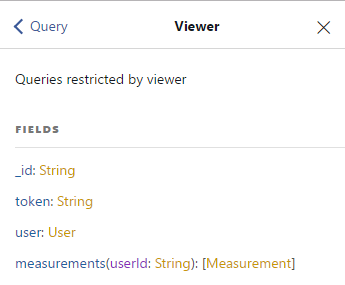
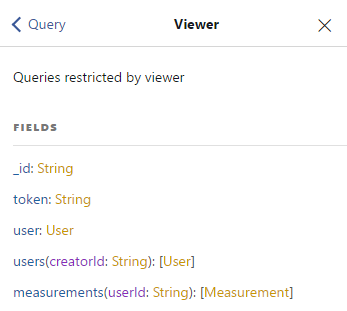
Feature/#196 update api (#197)
* acceptance test

* updated images and added users and measurements functions to api

diff --git a/appendices/accepttest.tex b/appendices/accepttest.tex
@@ -1,7 +1,10 @@
-\chapter{Acceptance tests}
-This chapter will contain user stories from chapter \ref{ch:Requirements} followed by acceptance tests to test weather the requirements are fulfilled or not.
+\chapter{Acceptance tests protocol}
+\label{ch:protocol}
+This appendix describes the results and experiences during the completion of the acceptance test.
 
-The acceptance test protocol describing what was found at every user story, can be found in appendix \ref{app:ch:protocol}
+Present: 
+
+Bjørn Sørensen and Jesper Christensen
 
 \userstory{As a consultant / user, I want to use a phone or tablet to access the system}
 
@@ -26,6 +29,11 @@ To limit the scope of the project, only \textit{Android} version 5.0 is tested o
 	As a consultant / user I can log in and access the system in the downloaded application on \textit{Android} & \xmark  &  \\
 	\hline
 	\end{tabularx}
+	
+\vspace{3mm}
+\textbf{Comments:}
+The application was available on the android app store. It was downloaded and login was succesful using both the user and the coach test user, on a LenovoPad TB3 running Android version 5.0.1.
+\vspace{3mm}
 
 \userstory{As a consultant, I want to input user information when beginning a session and automatically add them to the user database}
 
@@ -39,11 +47,17 @@ If internet is not present, the user information must be stored on the device fo
 	\hline
 	As a consultant, I can input user information on their behalf & \xmark  &  \\
 	\hline
-	If internet is present, the user will be added to the database immediately & & \xmark  \\
+	If internet is present, the user will be added to the database immediately &  & \xmark \\
 	\hline
 	If internet is unavailable, the user will be stored on the device and added to the database when internet connection is restored &  & \xmark  \\
 	\hline
 	\end{tabularx}
+	
+\vspace{3mm}
+\textbf{Comments:}
+When logged in as the test coach. user information could be input on their behalf.
+The application crashed when trying to submit the user.
+\vspace{3mm}
 
 \userstory{As a consultant, I want to start a session with a user and record data from the racket}
 
@@ -54,6 +68,11 @@ If internet is not present, the user information must be stored on the device fo
 	As a consultant, I can start a session with a user and record data from the racket &   & \xmark  \\
 	\hline
 	\end{tabularx}
+	
+\vspace{3mm}
+\textbf{Comments:}
+Since no racket sensor have been delivered, this test could not be performed
+\vspace{3mm}
 
 \userstory{As a consultant, I want started sessions to be persisted between application restarts}
 
@@ -65,6 +84,11 @@ If internet is not present, the user information must be stored on the device fo
 	\hline
 	\end{tabularx}
 
+\vspace{3mm}
+\textbf{Comments:}
+Since no racket sensor have been delivered, this test could not be performed. The logic is present however.
+\vspace{3mm}
+
 \userstory{As a consultant, I can find a previously stored user}
 
 \begin{tabularx}{\textwidth}{|b|c|c|}
@@ -74,6 +98,11 @@ If internet is not present, the user information must be stored on the device fo
 	As a consultant, I can search for and find a previously stored user &   & \xmark  \\
 	\hline
 	\end{tabularx}
+
+\vspace{3mm}
+\textbf{Comments:}
+This feature is did not make it into the prototype.
+\vspace{3mm}
 
 \userstory{As a consultant, I want to show details of recorded data to specific users}
 
@@ -85,15 +114,25 @@ If internet is not present, the user information must be stored on the device fo
 	\hline
 	\end{tabularx}
 
+\vspace{3mm}
+\textbf{Comments:}
+Since no racket sensor have been delivered, this test could not be performed. The logic is present however.
+\vspace{3mm}
+
 \userstory{As a user, I want to receive an email with a generated password for my account, when a consultant have created an account on my behalf}
 
 \begin{tabularx}{\textwidth}{|b|c|c|}
 	\hline
 	 & Yes & No \\
 	\hline
-	As a user I receive an email with a generated password to my account, when a consultant have created one on my behalf & & \xmark  \\
+	As a user I receive an email with a generated password to my account, when a consultant have created one on my behalf &  & \xmark  \\
 	\hline
 	\end{tabularx}
+
+\vspace{3mm}
+\textbf{Comments:}
+This functionality worked when deployed from debug mode. However the application from the Google Play Store crashes when attemtping to create a new user as a coach.
+\vspace{3mm}
 
 \userstory{As a user, I want to be able to change my password from within the application}
 
@@ -107,6 +146,12 @@ If internet is not present, this operation is not possible.
 	\hline
 	\end{tabularx}
 
+\vspace{3mm}
+\textbf{Comments:}
+This feature did not make it into the prototype.
+Autogenerated users will be forced to change their autogenerated passwords on their first login attempt. Could not be tested since the application crashes in the ''new user'' view.
+\vspace{3mm}
+
 \userstory{As a user, I want to compare my performance data to other users}
 
 \begin{tabularx}{\textwidth}{|b|c|c|}
@@ -116,6 +161,11 @@ If internet is not present, this operation is not possible.
 	As a user I can compare my performance data with other user &   & \xmark  \\
 	\hline
 	\end{tabularx}
+
+\vspace{3mm}
+\textbf{Comments:}
+This feature is did not make it into the prototype.
+\vspace{3mm}
 
 \userstory{As a user, I want to share my user profile on social media}
 
@@ -129,6 +179,11 @@ If internet is not present, this operation is not possible.
 	\hline
 	\end{tabularx}
 
+\vspace{3mm}
+\textbf{Comments:}
+This feature is did not make it into the prototype.
+\vspace{3mm}
+
 \userstory{As a user, I want to see my recorded data compared to historical data}
 
 \begin{tabularx}{\textwidth}{|b|c|c|}
@@ -138,3 +193,8 @@ If internet is not present, this operation is not possible.
 	As a user, I can see my recorded data compared to historical data if i have multiple recording sessions &   & \xmark  \\
 	\hline
 	\end{tabularx}
+
+\vspace{3mm}
+\textbf{Comments:}
+This feature is did not make it into the prototype.
+\vspace{3mm}

diff --git a/documentation/api.tex b/documentation/api.tex
@@ -61,6 +61,16 @@ The viewer type has a \verb+token+ parameter that can be used to query the \verb
 The \verb+Viewer+ can only be retrieved if the user is authenticated, either through the \verb+viewer+ field or the \verb+login+ field, on the root type \verb+query+. The \verb+Viewer+ is shown on figure \ref{fig:viewerType}
 \graphich{0.6}{api/viewerType}{The Query root type with fields}{fig:viewerType}
 
+\section{Users}
+The \verb+users+ function is used to get users created by a specific user id. If no id is provided, the \verb+users+ created by the caller is returned. 
+As shown on figure \ref{fig:users}, it can take a \verb+creatorId+.
+\graphich{0.6}{api/users}{The users function with arguments}{fig:users}
+
+\section{Measurements}
+The \verb+measurements+ function is used to get measurements belonging to a specific user id. If no id is provided, the \verb+measurements+ belonging to the caller is returned. 
+As shown on figure \ref{fig:measurements}, it can take a \verb+userId+.
+\graphich{0.6}{api/measurements}{The measurements function with arguments}{fig:measurements}
+
 \section{Mutation}
 \label{sec:mutation}
 The \verb+Mutation+ root type is also a restricted field where the user needs to be authenticated. 

diff --git a/Appendices.tex b/Appendices.tex
@@ -14,6 +14,8 @@
 
 \begin{appendices}
 
+\input{appendices/accepttest}
+
 \input{appendices/consultantInterview}
 
 \input{appendices/userSurvey}
